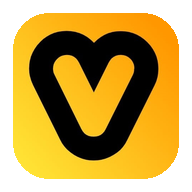
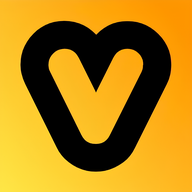
Speed up PWA install and normalize text line endings.
Chrome was packaging the 1.6MB logo twice plus two 500KB screenshots during WebAPK install. Point the manifest at compact 192/512 icons, skip screenshot downloads, and stop the service worker from caching those large images. Add .gitattributes so PHP/JS/JSON stay LF with a trailing newline.

diff --git a/firebase-messaging-sw.js b/firebase-messaging-sw.js
@@ -1,19 +1,11 @@
 importScripts('/index.php?option=com_pushnotify&task=display.sw');
 
-const CACHE_VERSION = 'v2026-09-10h';
+const CACHE_VERSION = 'v2026-09-11a';
 const STATIC_CACHE = `vigling-static-${CACHE_VERSION}`;
 const RUNTIME_CACHE = `vigling-runtime-${CACHE_VERSION}`;
-const STATIC_ASSETS = [
-  '/manifest.json'
-];
 
 self.addEventListener('install', (event) => {
-  event.waitUntil(
-    caches.open(STATIC_CACHE)
-      .then((cache) => cache.addAll(STATIC_ASSETS))
-      .catch(() => undefined)
-      .then(() => self.skipWaiting())
-  );
+  event.waitUntil(self.skipWaiting());
 });
 
 self.addEventListener('activate', (event) => {
@@ -43,21 +35,11 @@ self.addEventListener('fetch', (event) => {
   if (
     url.pathname.startsWith('/administrator') ||
     url.pathname.startsWith('/api') ||
+    url.pathname.startsWith('/images/') ||
+    url.pathname.startsWith('/icons/') ||
+    url.pathname === '/manifest.json' ||
     url.searchParams.get('option') === 'com_ajax'
   ) {
-    return;
-  }
-
-  if (url.pathname === '/manifest.json' || url.pathname.startsWith('/icons/') || url.pathname === '/images/logo.png') {
-    event.respondWith(
-      fetch(request)
-        .then((response) => {
-          const copy = response.clone();
-          caches.open(RUNTIME_CACHE).then((cache) => cache.put(request, copy)).catch(() => undefined);
-          return response;
-        })
-        .catch(() => caches.match(request))
-    );
     return;
   }
 
@@ -74,7 +56,7 @@ self.addEventListener('fetch', (event) => {
     return;
   }
 
-  const isStaticAsset = ['style', 'script', 'image', 'font'].includes(request.destination);
+  const isStaticAsset = ['style', 'script', 'font'].includes(request.destination);
 
   if (!isStaticAsset) {
     return;

diff --git a/templates/ryba/index.php b/templates/ryba/index.php
@@ -72,7 +72,7 @@ $this->setMetaData('viewport', 'width=device-width, initial-scale=1, maximum-sca
 	<meta name="apple-mobile-web-app-capable" content="yes">
 	<meta name="apple-mobile-web-app-title" content="VIGLING">
 	<meta name="apple-mobile-web-app-status-bar-style" content="default">
-	<link rel="manifest" href="<?php echo rtrim(Uri::root(), '/'); ?>/manifest.json?v=20260910h">
+	<link rel="manifest" href="<?php echo rtrim(Uri::root(), '/'); ?>/manifest.json?v=20260911a">
 	<link rel="preconnect" href="https://cdnjs.cloudflare.com" crossorigin>
 	<link rel="preconnect" href="https://stackpath.bootstrapcdn.com" crossorigin>
 	<link rel="preconnect" href="https://code.jquery.com" crossorigin>
@@ -1198,7 +1198,7 @@ $this->setMetaData('viewport', 'width=device-width, initial-scale=1, maximum-sca
 						return;
 					}
 					setStatus('Подготовка установки, подождите несколько секунд…');
-					waitForPrompt(20000).then(function(ready) {
+					waitForPrompt(8000).then(function(ready) {
 						if (ready && window.ViglingPwaInstall && window.ViglingPwaInstall.isReady()) {
 							runPrompt();
 							return;
@@ -1227,7 +1227,7 @@ $this->setMetaData('viewport', 'width=device-width, initial-scale=1, maximum-sca
 					setStatus('Установка доступна. Нажмите кнопку.');
 				} else {
 					setStatus('Подготовка установки… Если кнопка не сработает сразу, подождите 10–20 секунд или используйте меню Chrome (⋮).');
-					waitForPrompt(25000).then(function(ready) {
+					waitForPrompt(8000).then(function(ready) {
 						if (ready) {
 							setStatus('Установка доступна. Нажмите кнопку.');
 						}
